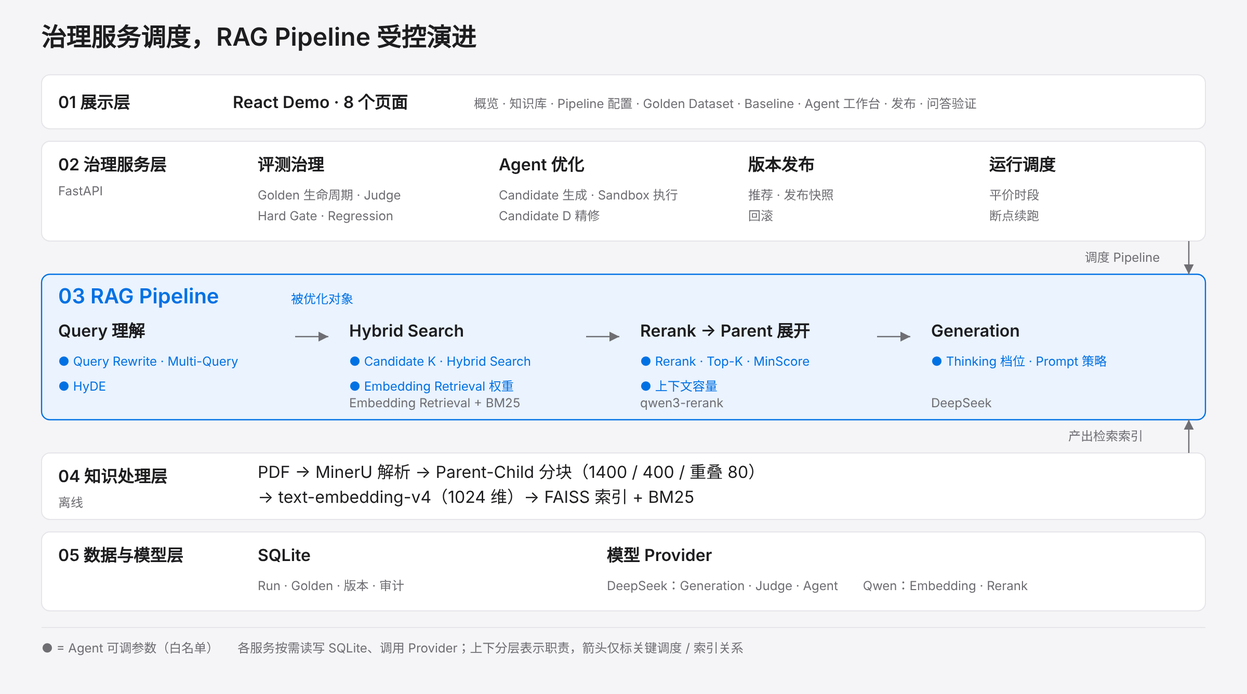
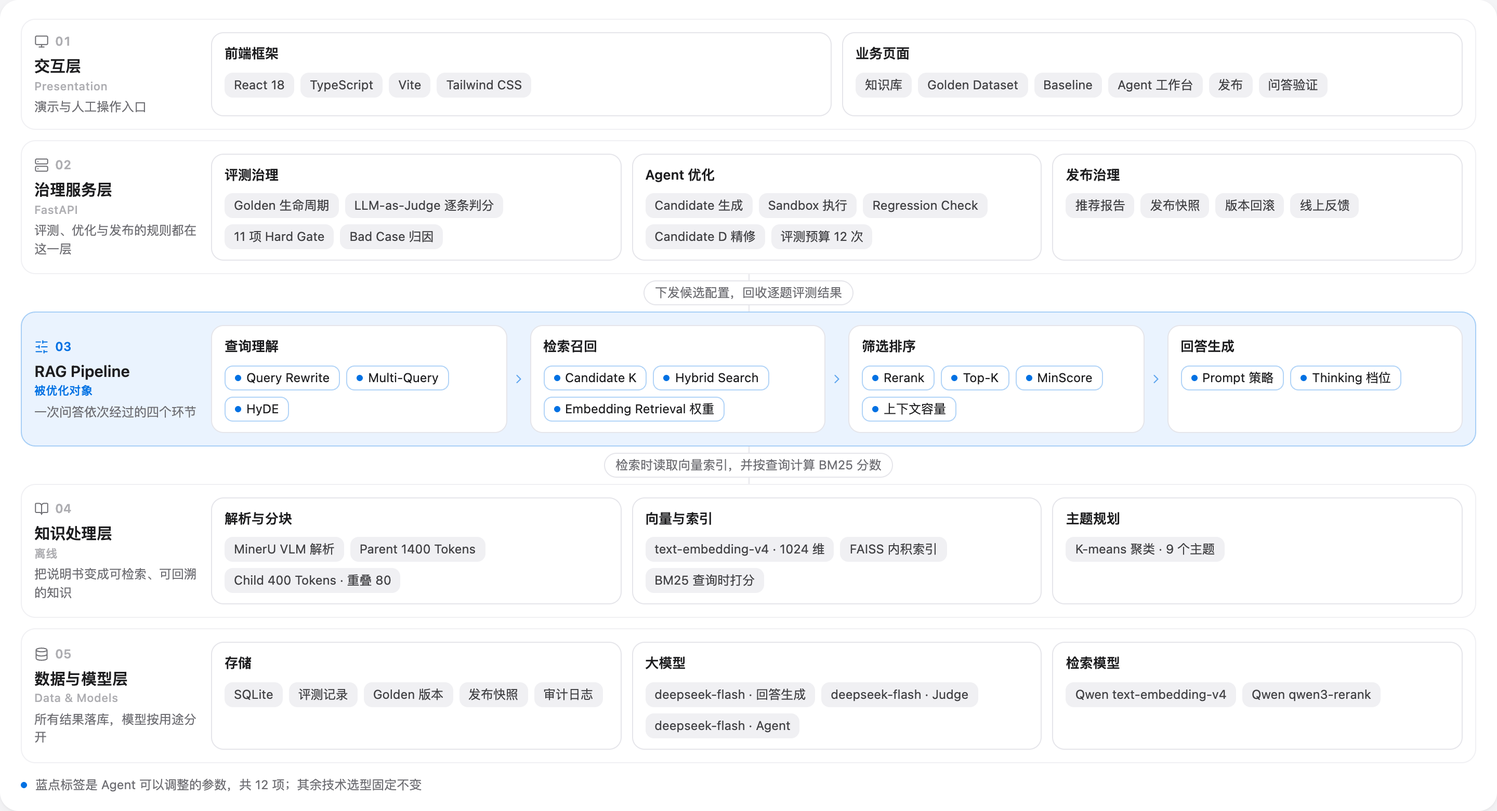
任务 027b-概览与业务技术架构重做：自动值班完成 (No SPEC Change)

diff --git a/frontend/src/pages/OverviewPage.tsx b/frontend/src/pages/OverviewPage.tsx
@@ -4,7 +4,6 @@ import { PageShell } from "../components/PageShell";
 import { useContext, useEffect, useState } from "react";
 import { PageWarmupContext } from "../preload";
 import { KnowledgeDiagrams } from "../components/KnowledgeDiagrams";
-import { ValueChain } from "../ui/overview/ValueChain";
 import { OverviewSummary } from "../ui/overview/OverviewSummary";
 import { displayText, productionName, gateNames } from "../display";
 import { OverviewStory, type FixedItem } from "../ui/overview/OverviewStory";
@@ -107,12 +106,6 @@ export function OverviewPage({ data, navigate }: { data: any; navigate: (page: P
     return typeof value === "number" ? value : null;
   };
   const pair = (key: string) => ({from: number(baseResult, key), to: number(finalResult, key)});
-  const correct = pair("correct"), p50 = pair("latency_p50_seconds"), refusal = pair("safe_rejection_rate");
-  const newBad = Array.isArray(finalResult?.new_regression_question_ids) ? finalResult.new_regression_question_ids.length : "未知";
-  const speed = p50.from !== null && p50.to !== null && p50.from > 0 ? Math.round((p50.from - p50.to) / p50.from * 100) : null;
-  const gates = finalResult?.gates;
-  const resultTitle = `答对 ${correct.from ?? "未知"} → ${correct.to ?? "未知"}，新增 Bad Case ${newBad}，${speed === null ? "P50 变化未知" : speed >= 0 ? `P50 快 ${speed}%` : `P50 慢 ${-speed}%`}`;
-  const resultDetail = `${typeof gates?.total === "number" && typeof gates?.passed_count === "number" ? gates.passed_count === gates.total ? `${gates.total} 项 Hard Gate 全过` : `${gates.passed_count}/${gates.total} 项 Hard Gate 通过` : "Hard Gate 未知"}，安全拒答 ${refusal.from ?? "未知"}% → ${refusal.to ?? "未知"}%`;
   const candidateName = finalCandidate ? schemeName(finalCandidate).replace(/^Round \d+ · /, "") : "";
   const readyToRelease = recommendation.status === "Recommended" && !!finalCandidate && next[2] === "versions";
   const primaryLabel = currentReleased ? "去问答验证" : readyToRelease ? "去发布" : next[0];
@@ -126,15 +119,10 @@ export function OverviewPage({ data, navigate }: { data: any; navigate: (page: P
     {label: "问答验证", fact: currentReleased ? "可验证线上回答" : "可查看线上配置", tips: ["逐题比较 Baseline 与线上回答", "反馈可作为再次进化的线索"], page: "verification"},
   ].map(step => ({...step, onClick: () => navigate(step.page as Page)}));
 
-  return <PageShell className={`page overview-page ${tab !== "project" ? "architecture-view" : ""}`} header={<div className="page-title"><div><h1><IconTile name="overview" />RAG 自进化项目概览</h1><p className="ui-kicker page-purpose">从知识到上线的完整闭环</p></div></div>} tabs={<div className="tabs" aria-label="概览内容"><button className={tab === "project" ? "active" : ""} aria-pressed={tab === "project"} onClick={() => setTab("project")}>项目概览</button><button className={tab === "business" ? "active" : ""} aria-pressed={tab === "business"} onClick={() => setTab("business")}>业务架构</button><button className={tab === "technical" ? "active" : ""} aria-pressed={tab === "technical"} onClick={() => setTab("technical")}>技术架构</button></div>} resetKey={tab}>
+  return <PageShell className={`page overview-page ${tab !== "project" ? "architecture-view" : ""}`} header={<div className="page-title"><div><h1><IconTile name="overview" />RAG 自进化项目概览</h1><p className="ui-kicker page-purpose">用一组数字和一条闭环，说明这套系统让智能客服变好了多少，又是怎样一步步做到的。</p></div></div>} tabs={<div className="tabs" aria-label="概览内容"><button className={tab === "project" ? "active" : ""} aria-pressed={tab === "project"} onClick={() => setTab("project")}>项目概览</button><button className={tab === "business" ? "active" : ""} aria-pressed={tab === "business"} onClick={() => setTab("business")}>业务架构</button><button className={tab === "technical" ? "active" : ""} aria-pressed={tab === "technical"} onClick={() => setTab("technical")}>技术架构</button></div>} resetKey={tab}>
 
 
     {tab !== "project" ? <ArchitecturePanel slot={tab} active={newKnowledge} /> : <>
-    <ValueChain steps={[
-      {kicker: "问题", title: "RAG 上线后答错难发现，调参靠试，修好一题又弄坏另一题", detail: "不知道该改哪里，也不敢上线"},
-      {kicker: "方法", title: "冻结考卷量化 → Agent 在白名单内调参 → 人工批准发布", detail: "每一步可量化、可归因、可回滚"},
-      {kicker: "结果", title: resultTitle, detail: resultDetail, result: true},
-    ]} />
     <OverviewSummary correct={pair("correct")} total={baseResult?.total ?? expectedCount}
       fixedCount={Array.isArray(finalResult?.all_fixed_question_ids) ? finalResult.all_fixed_question_ids.length : null}
       newBadCount={Array.isArray(finalResult?.new_regression_question_ids) ? finalResult.new_regression_question_ids.length : null}

diff --git a/frontend/src/pages/GovernancePage.tsx b/frontend/src/pages/GovernancePage.tsx
@@ -224,7 +224,7 @@ export function GovernancePage({ data }: { data: any }) {
 
   };
   const loadingWorkspace = !metadataLoaded || checkingSnapshot || !!workRun && !current.length && listing;
-  return <PageShell className={`page governance-page ${!workRun && tab === "run" ? "is-empty" : ""}`} header={<div className="page-title"><div><h1><IconTile name="golden" />Golden Dataset</h1><p className="ui-kicker page-purpose">50 题冻结考卷，每轮用同一把尺子</p></div>{!loadingWorkspace && <div className="header-actions"><button className="secondary" onClick={() => setHistoryOpen(true)}>历史版本</button></div>}</div>} tabs={<div className="tabs"><button aria-pressed={tab === "run"} className={tab === "run" ? "active" : ""} onClick={() => setTab("run")}>当前测试集</button><button aria-pressed={tab === "import"} className={tab === "import" ? "active" : ""} onClick={() => setTab("import")}>候选池</button></div>} resetKey={tab}>
+  return <PageShell className={`page governance-page ${!workRun && tab === "run" ? "is-empty" : ""}`} header={<div className="page-title"><div><h1><IconTile name="golden" />Golden Dataset</h1><p className="ui-kicker page-purpose">黄金测试集是评测用的标准考卷，50 道题冻结之后，每一轮优化都用它来打分，前后结果才有可比性。</p></div>{!loadingWorkspace && <div className="header-actions"><button className="secondary" onClick={() => setHistoryOpen(true)}>历史版本</button></div>}</div>} tabs={<div className="tabs"><button aria-pressed={tab === "run"} className={tab === "run" ? "active" : ""} onClick={() => setTab("run")}>当前测试集</button><button aria-pressed={tab === "import"} className={tab === "import" ? "active" : ""} onClick={() => setTab("import")}>候选池</button></div>} resetKey={tab}>
 
 {!loadingWorkspace && tab === "run" && <div className="header-actions page-data-actions">{!frozen && workRun?.status === "needs_regeneration" && <button className="primary" disabled={busy} onClick={() => setRegenerateConfirm(true)}>补齐失败题（{expectedCount - current.length}）</button>}</div>}
 {!loadingWorkspace && !frozen && tab === "run" && workRun?.status !== "needs_regeneration" && <div className="golden-new-run-actions"><label className="profile-selector"><CustomSelect ariaLabel="测试集 Profile" value={profile} onChange={value => setProfile(value as typeof profile)} options={profileOptions} /></label><button className="secondary" disabled={busy || running || qualityRunning} onClick={() => setNewRunConfirm(true)}>新建测试集</button></div>}
@@ -240,7 +240,7 @@ export function GovernancePage({ data }: { data: any }) {
         { label: displayText("Hard Validation"), done: current.length === expectedCount, value: `${current.length}/${expectedCount}` },
         { label: "Probe", done: current.length === expectedCount && current.every(row => row.probe_status === "probe_passed"), value: `${current.filter(row => row.probe_status === "probe_passed").length}/${expectedCount}${current.some(row => row.probe_status === "needs_revision") ? " 待处理" : ""}` },
         { label: "QC", done: current.length === expectedCount && current.every(row => row.qc_status === "qc_passed"), value: `${current.filter(row => row.qc_status === "qc_passed").length}/${expectedCount}${current.some(row => row.qc_status === "qc_failed") ? " 待处理" : ""}` },
-        { label: displayText("Human Gate"), done: !!gate1Snapshot, value: `${gate1Snapshot ? gate1Snapshot.snapshot?.question_ids?.length ?? "未知" : current.filter(row => ["approved", "owner_delegated_approved"].includes(row.review_status || row.status)).length}/${expectedCount}` },
+        { label: "Gate 1 · 人工审核", done: !!gate1Snapshot, value: `${gate1Snapshot ? gate1Snapshot.snapshot?.question_ids?.length ?? "未知" : current.filter(row => ["approved", "owner_delegated_approved"].includes(row.review_status || row.status)).length}/${expectedCount}` },
       ]} frozen={{ ok: frozen, text: frozen ? `已冻结 · ${frozenDate}` : "尚未冻结" }} />
       {workRun ? <Section title={<IconLabel name="golden">题目审核</IconLabel>}>
         <div className="review-filters" aria-label="题目筛选">{filters.filter(item => item.key !== "attention" || item.count > 0).filter(item => !frozen || item.key !== "pending").map(item => <button key={item.key} aria-pressed={filter === item.key} className={filter === item.key ? "active" : ""} onClick={() => setFilter(item.key)}>{item.label} {item.count}</button>)}        <small className="muted golden-review-role" role="status">{syncing || listing ? "正在同步…" : ""}</small></div>

diff --git a/frontend/src/pages/KnowledgePage.tsx b/frontend/src/pages/KnowledgePage.tsx
@@ -137,7 +137,7 @@ export function KnowledgePage({ data, openedDocument, onOpenedDocument, onChange
     { label: "知识主题", value: String(operation?.status === "running" ? "计算中" : knowledge.coverage?.final_k ?? "待更新"), meta: knowledge.coverage?.method || knowledge.coverage?.algorithm || "K-means 聚类" },
     { label: "检索索引", value: `${index.indexed_count ?? "—"} 已索引`, meta: `${retrieval.hybrid_search === true ? "Hybrid" : retrieval.hybrid_search === false ? "向量检索" : "检索方式未记录"} · ${retrieval.rerank === false ? "Rerank 关闭" : config.rerank_model || "Rerank 模型未记录"}` },
   ];
-  return <PageShell className="page knowledge-page" header={<div className="page-title"><div><h1><IconTile name="knowledge" />知识库</h1><p className="ui-kicker page-purpose">说明书变成可检索、可追溯的知识</p></div><div><div className="header-actions"><button className="secondary" disabled={busy} onClick={() => uploadInput.current?.click()}>新增文档</button></div><input ref={uploadInput} type="file" accept="application/pdf,.pdf" aria-label="选择 PDF 文档" hidden onChange={event => upload(event.target.files?.[0])} /></div></div>} tabs={<div className="tabs" aria-label="知识库内容"><button aria-pressed={view === "assets"} className={view === "assets" ? "active" : ""} onClick={() => setView("assets")}>知识资产</button><button aria-pressed={view === "technical"} className={view === "technical" ? "active" : ""} onClick={() => setView("technical")}>技术架构</button></div>} resetKey={view}>
+  return <PageShell className="page knowledge-page" header={<div className="page-title"><div><h1><IconTile name="knowledge" />知识库</h1><p className="ui-kicker page-purpose">把设备说明书解析成可以检索的知识片段，让每一句回答都能追溯到说明书的原页。</p></div><div><div className="header-actions"><button className="secondary" disabled={busy} onClick={() => uploadInput.current?.click()}>新增文档</button></div><input ref={uploadInput} type="file" accept="application/pdf,.pdf" aria-label="选择 PDF 文档" hidden onChange={event => upload(event.target.files?.[0])} /></div></div>} tabs={<div className="tabs" aria-label="知识库内容"><button aria-pressed={view === "assets"} className={view === "assets" ? "active" : ""} onClick={() => setView("assets")}>知识资产</button><button aria-pressed={view === "technical"} className={view === "technical" ? "active" : ""} onClick={() => setView("technical")}>技术架构</button></div>} resetKey={view}>
 
     <ConfirmDialog open={!!modelAction} onOpenChange={open => !open && setModelAction(null)} title={modelAction?.title || "确认更新知识库"} busy={busy} onConfirm={() => { const next = modelAction; setModelAction(null); if (next) void start(next.url, next.method, next.file); }}><p>将更新知识库并重建索引，会调用 Embedding 模型并产生费用。</p><p>知识库变更后，Golden 和 Baseline 可能需要重新确认。</p></ConfirmDialog>
     {error && <p className="error-notice" role="alert">{error}</p>}

diff --git a/frontend/src/pages/VerificationPage.tsx b/frontend/src/pages/VerificationPage.tsx
@@ -102,7 +102,7 @@ export function VerificationPage({ data, onOpenDocument }: { data: any; onOpenCi
   const remaining=!data.optimization?.baseline_run_id || data.optimization.baseline_run_id===baselineId ? remainingQuestionIds(data.optimization) : null;
   const markedBadCases=(monitoring.events || []).filter((event:any)=>event.determinable && event.bad_case).length;
   const openRemaining=(id:string)=>{setQuestionId(id);setTab("compare");location.hash=`verification?tab=compare&q=${encodeURIComponent(id)}`;};
-  return <PageShell className="page verification-page" header={<div className="page-title"><div><h1><IconTile name="verify" />问答验证</h1><p className="ui-kicker page-purpose">Before / After 的真实回答对比</p></div></div>} tabs={<div className="tabs"><button aria-pressed={tab === "compare"} className={tab === "compare" ? "selected" : ""} onClick={() => setTab("compare")}>Before/After</button><button aria-pressed={tab === "qa"} className={tab === "qa" ? "selected" : ""} onClick={() => setTab("qa")}>实时问答</button><button aria-pressed={tab === "monitoring"} className={tab === "monitoring" ? "selected" : ""} onClick={() => setTab("monitoring")}>线上反馈 → 再次进化</button></div>} resetKey={tab}>
+  return <PageShell className="page verification-page" header={<div className="page-title"><div><h1><IconTile name="verify" />问答验证</h1><p className="ui-kicker page-purpose">用同一道题优化前后的真实回答做对照，也可以直接向线上版本提问，查看回答和它引用的原文。</p></div></div>} tabs={<div className="tabs"><button aria-pressed={tab === "compare"} className={tab === "compare" ? "selected" : ""} onClick={() => setTab("compare")}>Before/After</button><button aria-pressed={tab === "qa"} className={tab === "qa" ? "selected" : ""} onClick={() => setTab("qa")}>实时问答</button><button aria-pressed={tab === "monitoring"} className={tab === "monitoring" ? "selected" : ""} onClick={() => setTab("monitoring")}>线上反馈 → 再次进化</button></div>} resetKey={tab}>
 
 
     {tab === "qa" && <AssistantPage examples={examples} examplesLoading={examplesLoading} examplesFailed={!!exampleBaselineId && exampleFailureId === exampleBaselineId} onAnswered={()=>{void refresh().catch(reason=>setError(errorMessage(reason)));}} productionLabel={released ? `当前线上：${schemeName(data.optimization?.candidates?.find((c:any)=>c.id===production.snapshot?.candidate_id),production.snapshot?.candidate_id).replace(/^Round \d+ · /, "")}（Candidate K ${parameterValue(production.config?.candidate_k)} · Top-K ${parameterValue(production.config?.top_k)} · Thinking ${parameterValue(production.config?.generation_thinking)}）` : "当前线上：Baseline（初始配置）"} productionVersion={production?.id || data.workspace?.active_version} isReleased={released} badCases={data.badCases || []} onOpenBadCase={() => { location.hash = "evaluation"; }} onOpenCitation={setCitation} onOpenDocument={onOpenDocument} onOpenMonitoring={()=>{setTab("monitoring");void refresh().catch(reason=>setError(errorMessage(reason)));}} />}

diff --git a/frontend/src/task024a-polish.test.tsx b/frontend/src/task024a-polish.test.tsx
@@ -14,18 +14,18 @@ beforeEach(()=>{sessionStorage.clear();localStorage.clear();history.replaceState
 afterEach(()=>{act(()=>root?.unmount());document.body.innerHTML='';vi.unstubAllGlobals();});
 async function mount(node:React.ReactNode){root=createRoot(document.body.appendChild(document.createElement('div')));await act(async()=>root.render(node));}
 async function click(label:string){await act(async()=>[...document.querySelectorAll<HTMLButtonElement>('button')].find(b=>b.textContent===label)!.click());}
-it('calculates value-chain results and reuses route lessons without inventing missing results',async()=>{
+it('shows saved results in the summary and reuses route lessons without inventing missing results',async()=>{
  const exp:any={...structuredClone(sampleExperiment),id:'exp',baseline_run_id:'base'};
  const d=exp.candidates.find((c:any)=>c.reasoning.candidate_label==='D')!;
  exp.recommendation={...exp.recommendation,recommended_candidate:d.id};
  d.result={...d.result,total:50,bad_case_count:2,metrics:{latency_p50_seconds:8,safe_rejection_rate:100},gates:{passed_count:11,total:11,gates:[]},new_regression_question_ids:[]};
  const data={evaluation:{id:'base',status:'completed',config:sampleBaselineConfig,result:{total:50,bad_case_count:6,metrics:{latency_p50_seconds:16,safe_rejection_rate:95}}},optimization:exp,workspace:{},overview:{dataset:{total:50,approved:50}}};
  await mount(<OverviewPage data={data} navigate={()=>{}}/>);
- const chain=document.querySelector('.ui-vc')!;expect(chain.textContent).toContain('答对 44 → 48');expect(chain.textContent).toContain('P50 快 50%');expect(chain.textContent).toContain('11 项 Hard Gate 全过');
+ const summary=document.querySelector('.ui-ov-hero')!;expect(document.querySelector('.ui-ov-big')?.textContent).toMatch(/44.*48/);expect(summary.textContent).toMatch(/P50.*16\.0.*8\.0/);expect(summary.textContent).toContain('Hard Gate 11 / 11');
  const model=buildEvolutionModel(exp,sampleBaselineConfig,key=>key,item=>item.id);
  for(const round of model.rounds.filter(r=>r.round<=2 && r.lesson))expect(document.querySelector('[aria-label="优化过程"]')!.textContent).toContain(round.lesson!.text);
  await act(async()=>root.render(<OverviewPage data={{}} navigate={()=>{}}/>));
- expect(document.querySelector('.ui-vc')!.textContent).toContain('未知');expect(document.querySelector('.ui-vc')!.textContent).not.toContain('44 → 48');
+ expect(document.querySelector('.ui-ov-hero')!.textContent).toContain('未知');expect(document.querySelector('.ui-ov-big')!.textContent).not.toMatch(/44.*48/);
 });
 it('hides idle Sandbox progress while keeping parameters and diagnosis on the route',async()=>{
  history.replaceState(null,'','#evolution');await mount(<EvolutionPage data={{evaluation:{id:'base',status:'completed',config:sampleBaselineConfig,result:{total:50,bad_case_count:6}},optimization:{...sampleExperiment,baseline_run_id:'base'},workspace:{}}}/>);

diff --git a/frontend/src/overview-architecture.test.tsx b/frontend/src/overview-architecture.test.tsx
@@ -7,19 +7,25 @@ import { OverviewPage } from "./pages/OverviewPage";
 (globalThis as { IS_REACT_ACT_ENVIRONMENT?: boolean }).IS_REACT_ACT_ENVIRONMENT = true;
 afterEach(() => { vi.unstubAllGlobals(); document.body.innerHTML = ""; });
 
-it("renders inline architecture without reference upload or developer disclosures", async () => {
+it("renders project results and the new architecture tabs without writes", async () => {
   const fetch = vi.fn(); vi.stubGlobal("fetch", fetch);
   const root = createRoot(document.body.appendChild(document.createElement("div")));
   await act(async () => root.render(<OverviewPage data={{}} navigate={() => {}} />));
+  expect(document.querySelector(".ui-vc")).toBeNull();
+  expect(document.querySelector(".page-content")?.firstElementChild?.classList.contains("ui-ov")).toBe(true);
   await act(async () => [...document.querySelectorAll("button")].find(button => button.textContent === "业务架构")!.click());
-  expect(document.querySelector('.architecture-challenges')?.textContent).toContain("质量难以衡量");
-  expect(document.querySelector('.knowledge-diagrams')?.textContent).toContain("人工关口 ③");
+  expect(document.querySelector(".ui-problems")?.textContent).toContain("智能客服上线以后");
+  expect(document.querySelectorAll(".ui-arch-row")).toHaveLength(3);
+  expect(document.querySelectorAll(".ui-arch-node")).toHaveLength(18);
+  expect([...document.querySelectorAll(".ui-arch-gate")].map(node => node.textContent)).toEqual(["Gate 1人工审核", "Gate 2人工审核", "Gate 3人工审批"]);
+  expect(document.querySelector(".architecture-figure")).toBeNull();
   expect(document.body.textContent).not.toContain("已保存参考图");
   expect(document.querySelector('input[type="file"]')).toBeNull();
   await act(async () => [...document.querySelectorAll("button")].find(button => button.textContent === "技术架构")!.click());
-  expect(document.querySelectorAll('svg[role="img"]')).toHaveLength(1);
+  expect(document.querySelectorAll(".ui-tech-layer")).toHaveLength(5);
   expect(document.body.textContent).toContain("RAG Pipeline");
-  expect(document.body.textContent).toContain("Agent 可调参数（白名单）");
+  expect([...document.querySelectorAll(".ui-tech-tag.tunable")].map(node => node.textContent)).toEqual(["Query Rewrite", "Multi-Query", "HyDE", "Candidate K", "Hybrid Search", "Embedding Retrieval 权重", "Rerank", "Top-K", "MinScore", "上下文容量", "Prompt 策略", "Thinking 档位"]);
+  expect(document.querySelector(".ui-tech")?.textContent).toContain("deepseek-flash");
   expect(document.body.textContent).not.toMatch(/平价|断点续跑/);
   expect(fetch).not.toHaveBeenCalled();
   const ids = [...document.querySelectorAll('svg [id]')].map(node => node.id);

diff --git a/frontend/src/pages/EvaluationPage.tsx b/frontend/src/pages/EvaluationPage.tsx
@@ -183,7 +183,7 @@ export function EvaluationPage({ data, navigate }: { data: any; navigate?: (page
 
   const versionedRerun = !!run.id && !canResume && !["queued", "running"].includes(run.status);
   const startButton = <button className="secondary" disabled={busy || preflight?.can_start !== true} onClick={() => setStartConfirm(true)}><Play size={15} />{["queued","running"].includes(run.status) ? "后台评测进行中" : canResume ? "恢复 Baseline" : run.id ? "重新运行 Baseline（新版本）" : "运行 Baseline 评测"}</button>;
-  return <PageShell className="page evaluation-page" header={<div className="page-title"><div><h1><IconTile name="baseline" />Baseline</h1><p className="ui-kicker page-purpose">当前版本体检：门槛与 Bad Case</p></div></div>} tabs={<div className="tabs"><button className={tab === "report" ? "active" : ""} aria-pressed={tab === "report"} onClick={() => setTab("report")}>Baseline 报告</button><button className={tab === "gates" ? "active" : ""} aria-pressed={tab === "gates"} onClick={() => setTab("gates")}>{displayText("Hard Gate")}</button><button className={tab === "cases" ? "active" : ""} aria-pressed={tab === "cases"} onClick={() => setTab("cases")}>Bad Case 诊断</button></div>} resetKey={tab}>
+  return <PageShell className="page evaluation-page" header={<div className="page-title"><div><h1><IconTile name="baseline" />Baseline</h1><p className="ui-kicker page-purpose">用黄金测试集给当前版本做一次完整体检，看清门槛是否达标、哪些题还答不好、问题出在哪一层。</p></div></div>} tabs={<div className="tabs"><button className={tab === "report" ? "active" : ""} aria-pressed={tab === "report"} onClick={() => setTab("report")}>Baseline 报告</button><button className={tab === "gates" ? "active" : ""} aria-pressed={tab === "gates"} onClick={() => setTab("gates")}>{displayText("Hard Gate")}</button><button className={tab === "cases" ? "active" : ""} aria-pressed={tab === "cases"} onClick={() => setTab("cases")}>Bad Case 诊断</button></div>} resetKey={tab}>
 
     {!versionedRerun && <div className="header-actions page-data-actions">{startButton}</div>}
     <ConfirmDialog open={startConfirm} onOpenChange={setStartConfirm} title={canResume ? "确认恢复 Baseline" : "确认重新运行 Baseline"} busy={busy} onConfirm={() => { setStartConfirm(false); void prepareStart(); }}><p>{canResume ? "将恢复原 Baseline 的未完成题目，已完成的题目保留。" : "会用当前 Pipeline 配置对 50 题重新评测，产生新版本正式评测。"}</p><p>会调用模型并产生费用。</p><p>不会影响当前线上版本。</p></ConfirmDialog>

diff --git a/frontend/src/task024b-customer-copy.test.tsx b/frontend/src/task024b-customer-copy.test.tsx
@@ -15,10 +15,11 @@ it('keeps the one-line page purpose through architecture tab switches',async()=>
  const root=createRoot(document.body.appendChild(document.createElement('div')));
  try{
   await act(async()=>root.render(<OverviewPage data={{}} navigate={()=>{}}/>));
-  expect(document.querySelector('.page-title .ui-kicker')?.textContent).toBe('从知识到上线的完整闭环');
+  expect(document.querySelector('.page-title .ui-kicker')?.textContent).toBe('用一组数字和一条闭环，说明这套系统让智能客服变好了多少，又是怎样一步步做到的。');
   await act(async()=>[...document.querySelectorAll('button')].find(b=>b.textContent==='业务架构')!.click());
-  expect(document.querySelector('.page-title .ui-kicker')?.textContent).toBe('从知识到上线的完整闭环');
-  expect(document.querySelector('figcaption')?.textContent).toBe('业务视角：可信评测 → 受控优化 → 人工发布');
+  expect(document.querySelector('.page-title .ui-kicker')?.textContent).toBe('用一组数字和一条闭环，说明这套系统让智能客服变好了多少，又是怎样一步步做到的。');
+  expect(document.querySelector('.ui-problems')).not.toBeNull();
+  expect(document.querySelector('.ui-arch')).not.toBeNull();
   expect(fetch).not.toHaveBeenCalled();
  }finally{await act(async()=>root.unmount());}
 });
@@ -29,12 +30,10 @@ it('translates result and runtime codes while retaining professional names',()=>
  }
  for(const word of ['Bad Case','Candidate','Winner','Hard Gate','Top-K','Rerank','P50','P99'])expect(displayText(word)).toBe(word);
 });
-it('adds a caption to each original inline diagram',()=>{
- for(const kind of ['business','technical','knowledge'] as const){
-  const html=renderToStaticMarkup(<KnowledgeDiagrams kind={kind}/>);
-  expect(html).toContain('<figcaption');expect(html).toContain('<svg');
-  expect(html).toContain('viewBox="0 0 1200');
- }
+it('keeps the knowledge diagram and its caption while the architecture tabs use components',()=>{
+ const html=renderToStaticMarkup(<KnowledgeDiagrams kind="knowledge"/>);
+ expect(html).toContain('<figcaption');expect(html).toContain('<svg');
+ expect(html).toContain('viewBox="0 0 1200');
 });
 
 it('normalizes terminology only in the display while keeping saved Agent text intact',()=>{

diff --git a/frontend/src/components/KnowledgeDiagrams.tsx b/frontend/src/components/KnowledgeDiagrams.tsx
@@ -1,26 +1,11 @@
-import business from "../../../docs/images/architecture-business.svg?raw";
-import technical from "../../../docs/images/architecture-technical.svg?raw";
 import knowledge from "../../../docs/images/knowledge-evidence-flow.svg?raw";
+import { BusinessArchitecture, ProjectProblems } from "../ui/architecture/BusinessArchitecture";
+import { TechArchitecture } from "../ui/architecture/TechArchitecture";
 
-const diagrams = { business, technical, knowledge };
-const captions = {
-  business: "业务视角：可信评测 → 受控优化 → 人工发布",
-  technical: "技术视角：治理服务调度，RAG Pipeline 受控演进",
-  knowledge: "知识视角：说明书解析 → 检索证据 → 回答引用溯源",
-};
-const challenges = [
-  ["质量难以衡量", "可信评测", "冻结 Golden + Judge + Hard Gate"],
-  ["专家调优成本高", "Agent 受控优化", "白名单参数、多方向实验"],
-  ["修好一处、弄坏一处", "Regression 治理 + 人工发布", ""],
-];
-
-export function KnowledgeDiagrams({ kind }: { kind: keyof typeof diagrams; active?: boolean }) {
+export function KnowledgeDiagrams({ kind }: { kind: "business" | "technical" | "knowledge"; active?: boolean }) {
   return <div className={`knowledge-diagrams architecture-${kind}`}>
-    {kind === "business" && <div className="architecture-challenges" aria-label="挑战与建设目标">
-      {challenges.map(([challenge, goal, detail]) => <div key={challenge}>
-        <span>{challenge} →</span><strong>{goal}</strong>{detail && <small>{detail}</small>}
-      </div>)}
-    </div>}
-    <figure className="architecture-figure"><div dangerouslySetInnerHTML={{ __html: diagrams[kind] }} /><figcaption className="ui-kicker">{captions[kind]}</figcaption></figure>
+    {kind === "business" ? <><ProjectProblems /><BusinessArchitecture /></>
+      : kind === "technical" ? <TechArchitecture />
+      : <figure className="architecture-figure"><div dangerouslySetInnerHTML={{ __html: knowledge }} /><figcaption className="ui-kicker">知识视角：说明书解析 → 检索证据 → 回答引用溯源</figcaption></figure>}
   </div>;
 }

diff --git a/frontend/src/pages/EvolutionPage.tsx b/frontend/src/pages/EvolutionPage.tsx
@@ -268,7 +268,7 @@ export function EvolutionPage({ data }: { data: any }) {
       }),
     })),
   ];
-  return <PageShell className="page evolution-page" header={<><div className="page-title"><div><h1><IconTile name="agent" />Agent 工作台</h1><p className="ui-kicker page-purpose">按 Bad Case 原因提方案、沙盒比较</p></div><div className="header-actions">{hasRunning && <button className="secondary" onClick={() => setStage("comparison")}>查看 Sandbox 进度</button>}<button className="secondary" onClick={() => setHistoryOpen(true)}>查看历史实验</button></div></div><AgentStats rounds={roundChoices.length} candidates={candidates.length} budget={budgetKnown ? budget : null}
+  return <PageShell className="page evolution-page" header={<><div className="page-title"><div><h1><IconTile name="agent" />Agent 工作台</h1><p className="ui-kicker page-purpose">Agent 根据 Bad Case 的成因提出不同方向的 Candidate，在 Sandbox 里用同一套考卷比较，找出既修好问题又不弄坏其他题的方案。</p></div><div className="header-actions">{hasRunning && <button className="secondary" onClick={() => setStage("comparison")}>查看 Sandbox 进度</button>}<button className="secondary" onClick={() => setHistoryOpen(true)}>查看历史实验</button></div></div><AgentStats rounds={roundChoices.length} candidates={candidates.length} budget={budgetKnown ? budget : null}
       status={{kind: hasRunning || busy ? "running" : productionReleased ? "released" : savedRecommended ? "recommended" : sandboxPause ? "paused" : "waiting", text: agentStatus}} /></>} tabs={<div className="tabs"><button aria-pressed={stage === "route"} className={stage === "route" ? "active" : ""} onClick={() => setStage("route")}>进化路线</button><button aria-pressed={stage === "comparison"} className={stage === "comparison" ? "active" : ""} onClick={() => setStage("comparison")}>Candidate 对比</button><button aria-pressed={stage === "review"} className={stage === "review" ? "active" : ""} onClick={() => setStage("review")}>回归与推荐</button></div>} resetKey={stage}>
 
 

diff --git a/frontend/src/pages/VersionsPage.tsx b/frontend/src/pages/VersionsPage.tsx
@@ -84,7 +84,7 @@ export function VersionsPage({ data }: { data: any }) {
   const blocker = (candidate: any) => released(candidate) ? "历史发布记录已保存" : canRelease(candidate) ? "满足本轮发布资格，等待人工 发布确认" : candidate.release_state?.human_release ? "已记录人工发布，请核对版本记录" : !candidate.release_state?.sandbox ? "Sandbox 尚未完成" : !candidate.release_state?.qualified ? "正式资格未通过" : !candidate.release_state?.recommended ? "尚未完成 人工确认 Candidate 推荐确认" : "本轮 组合 Candidate D 决策尚未完成";
   const configFields = (config: any) => <div className="parameter-list">{Object.entries(config || {}).filter(([key,value]) => key in parameterNames && (value === null || typeof value !== "object")).map(([key,value])=><div key={key}><span>{parameterNames[key] || key}</span><strong>{formatValue(value)}</strong></div>)}</div>;
   const versionName = currentReleased ? `线上版本 来源 ${sourceName}` : currentVersion?.provenance === "bootstrap" ? "当前线上配置" : currentVersion ? "当前线上版本" : "尚无 线上版本 发布";
-  return <PageShell className="page versions-page" header={<div className="page-title"><div><h1><IconTile name="release" />发布</h1><p className="ui-kicker page-purpose">程序给资格，人来批准，可回滚</p></div></div>}>
+  return <PageShell className="page versions-page" header={<div className="page-title"><div><h1><IconTile name="release" />发布</h1><p className="ui-kicker page-purpose">程序只负责判断能不能发布，是否上线由人来批准，每次发布都会保存快照，随时可以回滚。</p></div></div>}>
     {error && <p className="error-notice" role="alert">{error}</p>}
     <div className="release-panel-layout"><ReleasePanel
       online={{name: onlineVersion?.provenance === "bootstrap" ? "Baseline" : onlineVersion ? versionLabel(onlineVersion) : "发布前配置未知", params: params(onlineVersion?.config)}}

diff --git a/frontend/src/ui/architecture/TechArchitecture.tsx b/frontend/src/ui/architecture/TechArchitecture.tsx
@@ -37,7 +37,7 @@ export const TECH_LAYERS: TechLayer[] = [
     key: "pipeline", index: "03", name: "RAG Pipeline", en: "被优化对象", role: "一次问答依次经过的四个环节", icon: "pipeline", focus: true, flow: true,
     groups: [
       { title: "查询理解", tags: p("Query Rewrite", "Multi-Query", "HyDE") },
-      { title: "检索召回", tags: p("Hybrid Search", "Candidate K", "Embedding 权重") },
+      { title: "检索召回", tags: p("Candidate K", "Hybrid Search", "Embedding Retrieval 权重") },
       { title: "筛选排序", tags: p("Rerank", "Top-K", "MinScore", "上下文容量") },
       { title: "回答生成", tags: p("Prompt 策略", "Thinking 档位") },
     ],
@@ -54,7 +54,7 @@ export const TECH_LAYERS: TechLayer[] = [
     key: "data", index: "05", name: "数据与模型层", en: "Data & Models", role: "所有结果落库，模型按用途分开", icon: "data",
     groups: [
       { title: "存储", tags: t("SQLite", "评测记录", "Golden 版本", "发布快照", "审计日志") },
-      { title: "大模型", tags: t("DeepSeek · 回答生成", "DeepSeek · Judge", "DeepSeek · Agent") },
+      { title: "大模型", tags: t("deepseek-flash · 回答生成", "deepseek-flash · Judge", "deepseek-flash · Agent") },
       { title: "检索模型", tags: t("Qwen text-embedding-v4", "Qwen qwen3-rerank") },
     ],
   },
@@ -62,7 +62,7 @@ export const TECH_LAYERS: TechLayer[] = [
 
 const LINKS: Record<string, string> = {
   service: "下发候选配置，回收逐题评测结果",
-  pipeline: "检索时读取向量索引和关键词索引",
+  pipeline: "检索时读取向量索引，并按查询计算 BM25 分数",
 };
 
 export function TechArchitecture({ layers = TECH_LAYERS, links = LINKS }: { layers?: TechLayer[]; links?: Record<string, string> }) {
